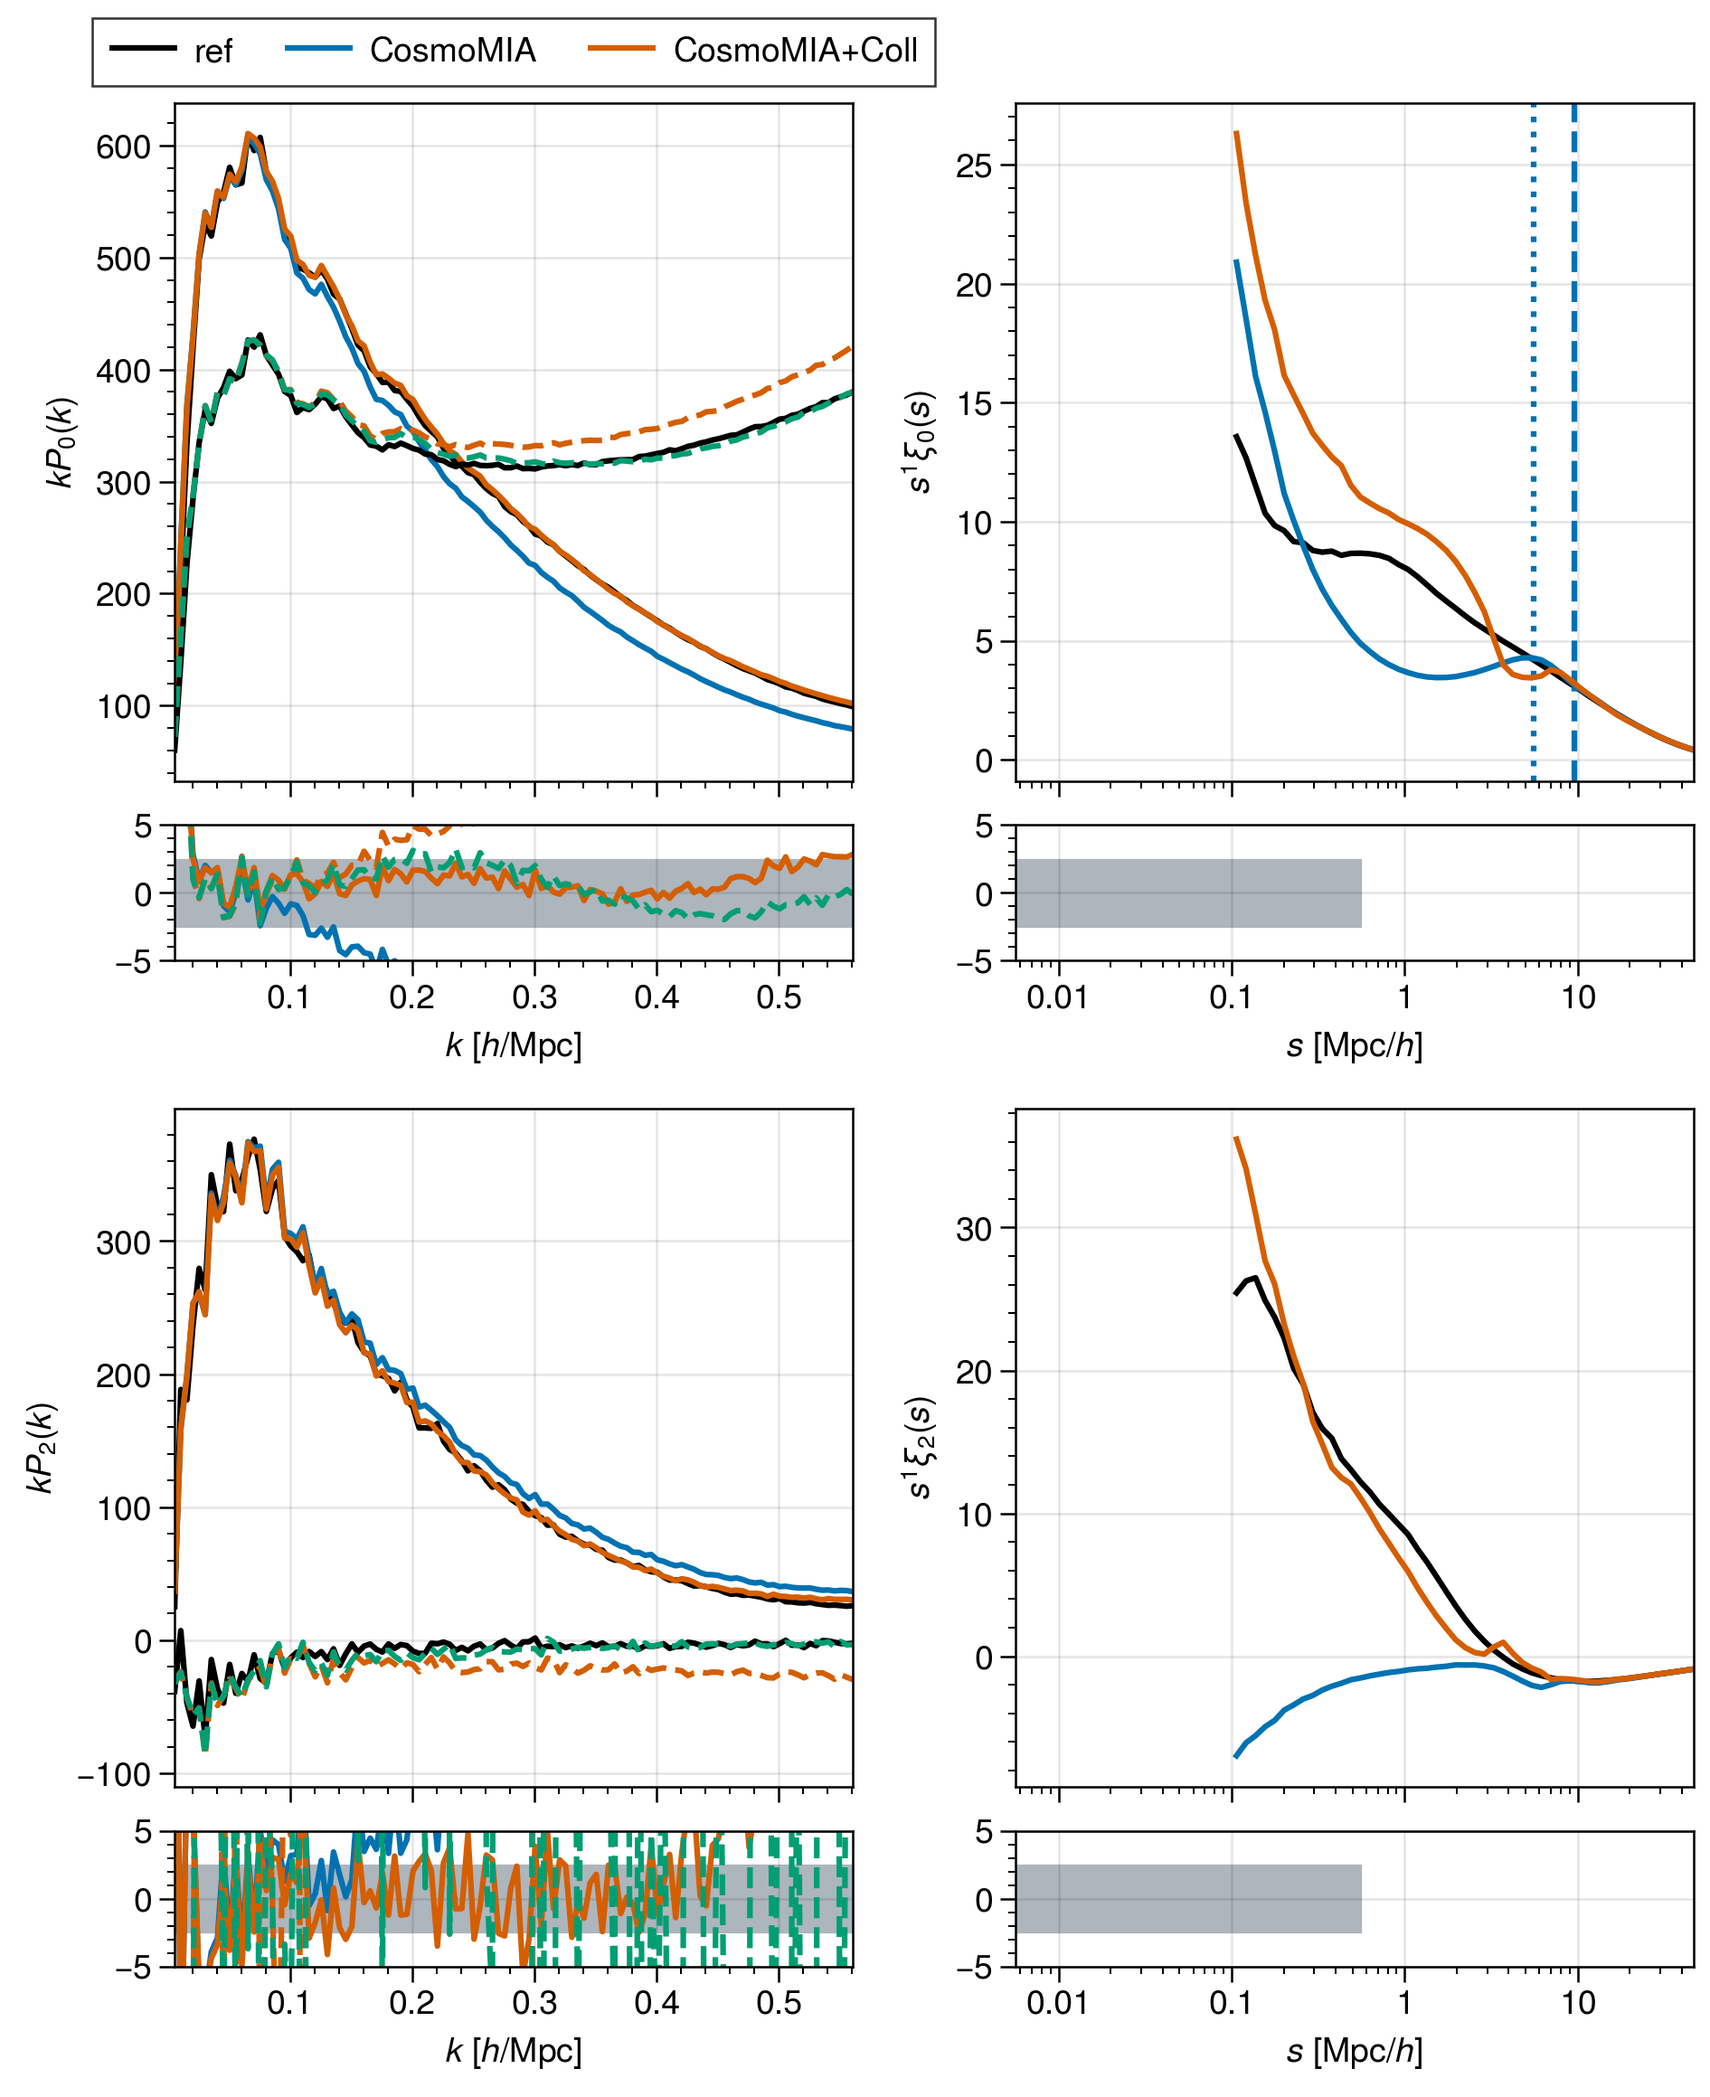
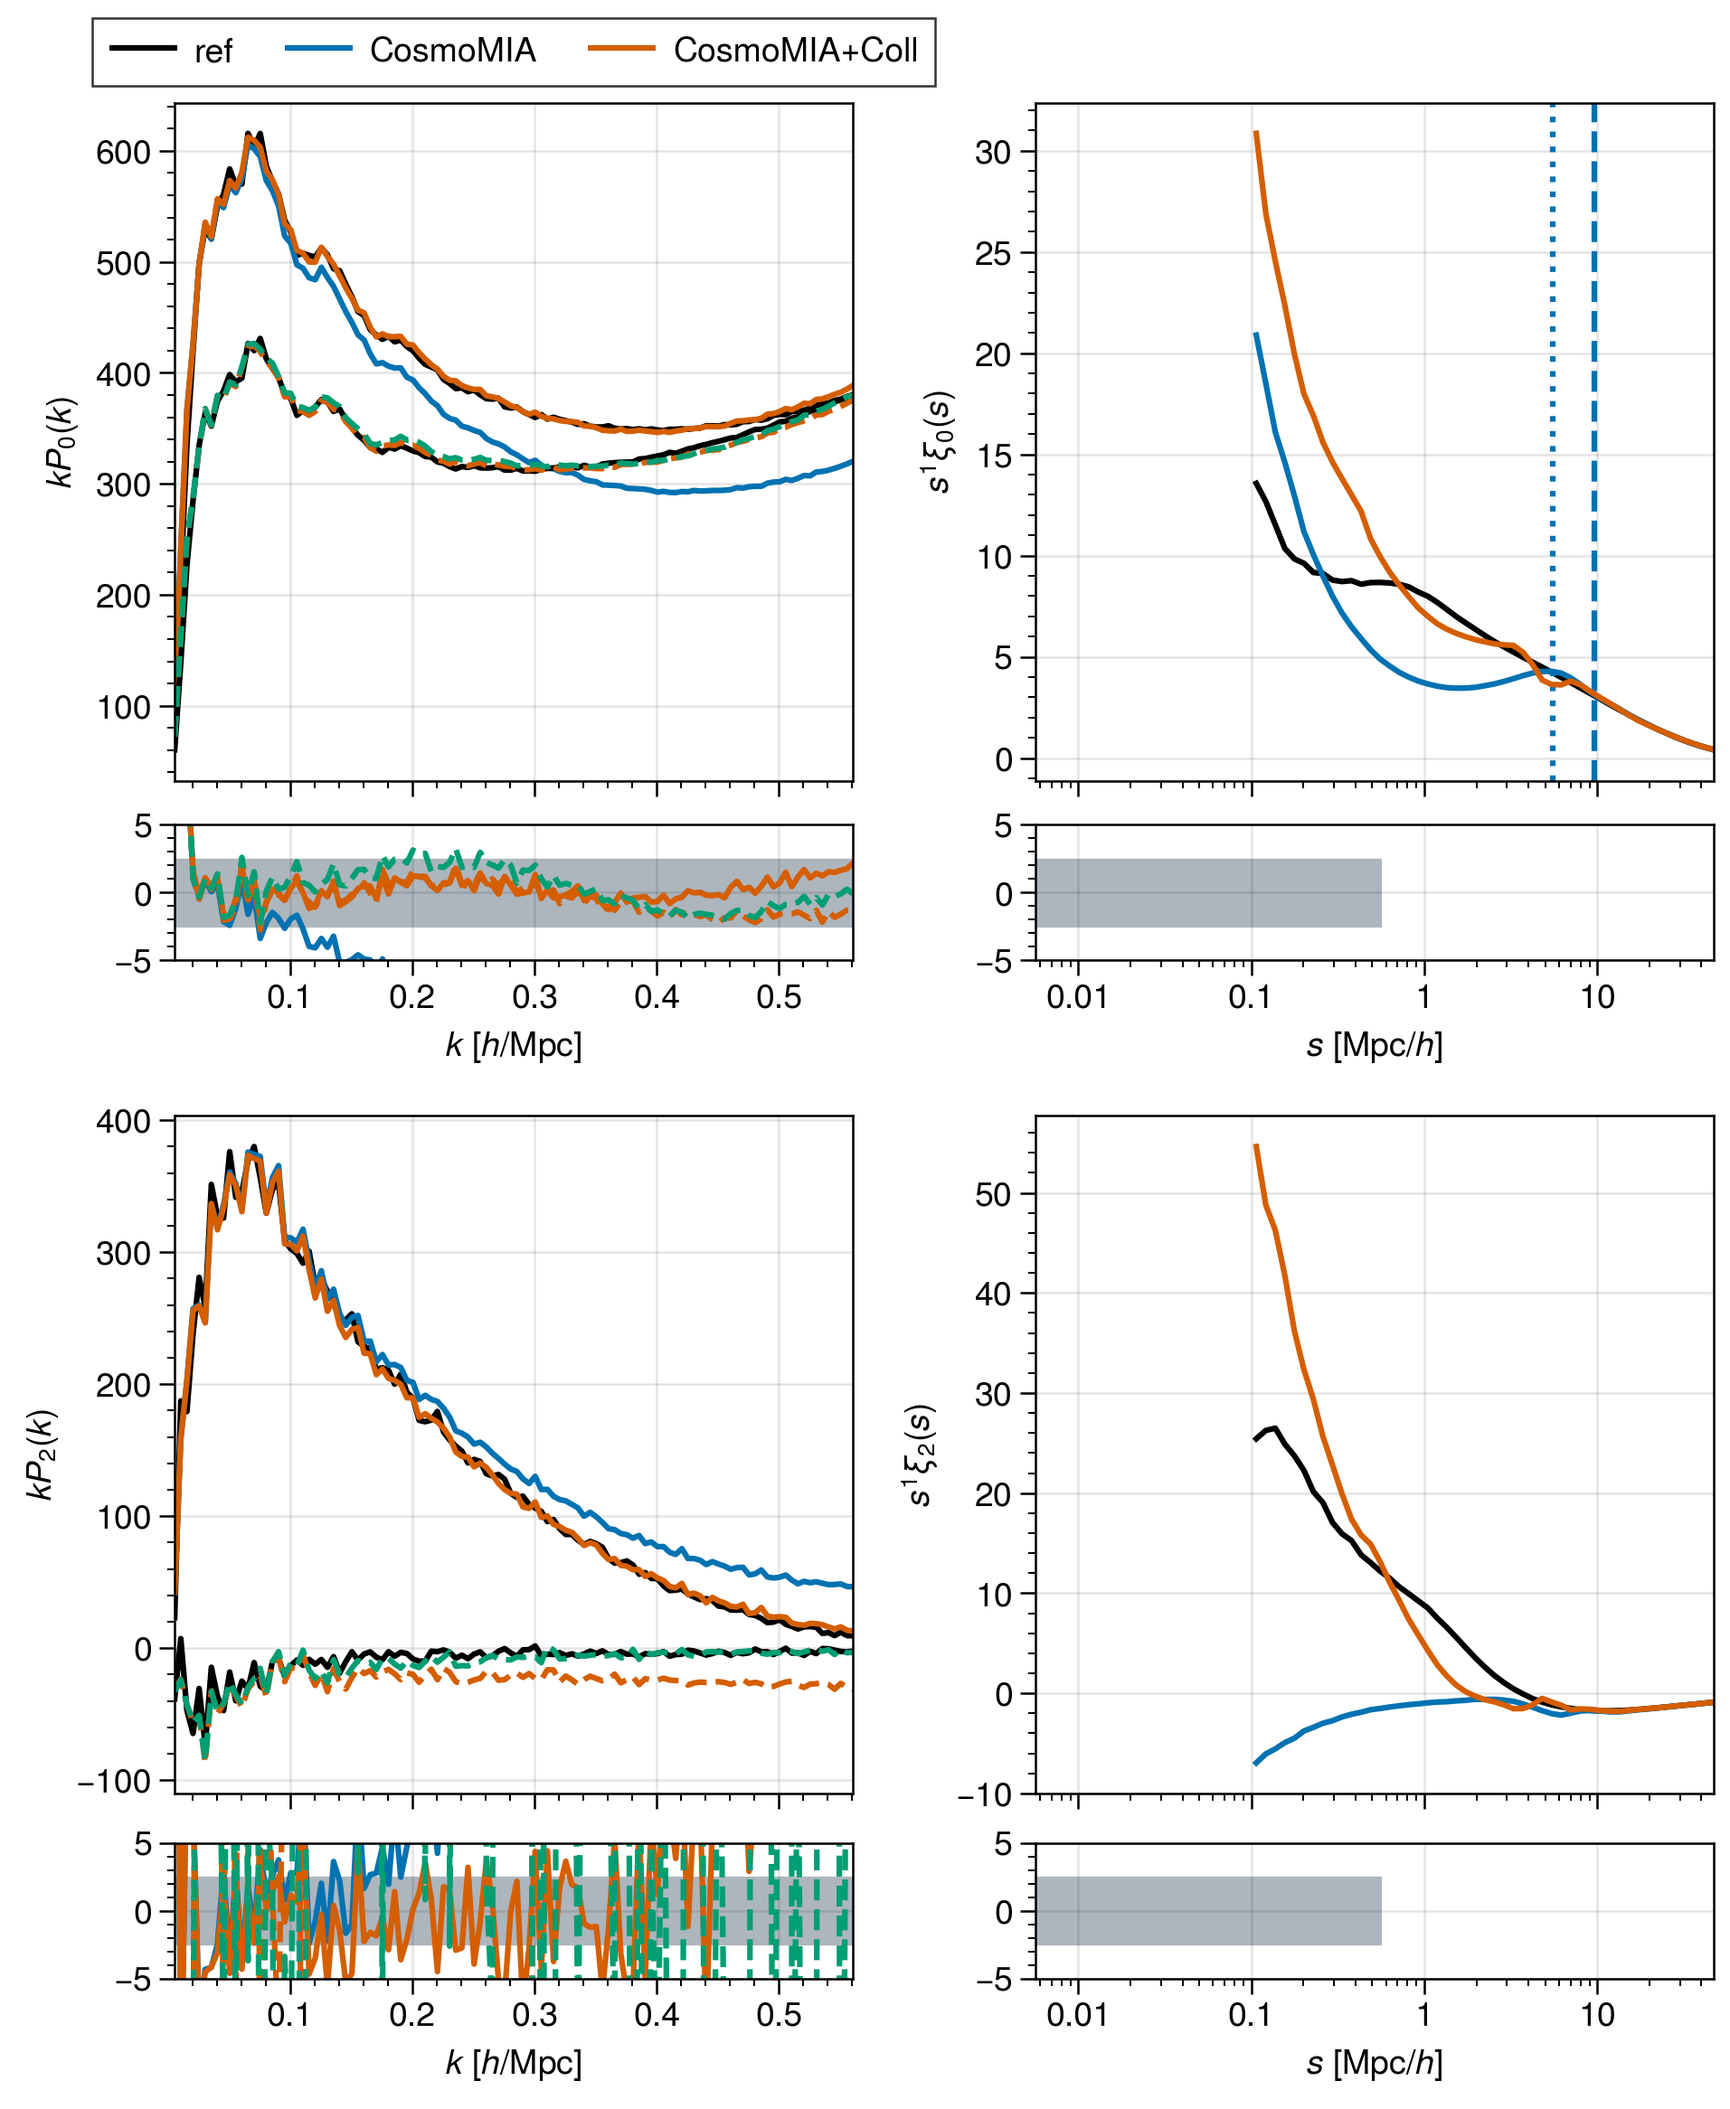
Further tests, close to freezing params

diff --git a/examples/example_subgrid.py b/examples/example_subgrid.py
@@ -3,7 +3,7 @@ import numpy as np
 import jax 
 import jax.numpy as jnp
 import sys, os
-from cosmomia.mas import cic_mas_vec, ngp_mas_vec
+from cosmomia.mas import ngp_mas_vec, ngp_mas_vec
 from cosmomia import py_assign_particles_to_gals, subgrid_collapse, single_collapse_step
 from cosmomia.correlations import powspec_vec, naive_pk, naive_xpk, naive_rcoeff, naive_pk_poles, bispec
 from cosmomia.displacements import enhance_short_range, interpolate_field, spherical_collapse, vel_kernel
@@ -88,6 +88,7 @@ if __name__ == '__main__':
     dm_dens = np.fromfile(DELTA_FILE, np.float32, GRID_SIZE**3)
     dm_cw_type = np.fromfile(CWEB_FILE, np.float32, GRID_SIZE**3).astype(np.uint32)
     target_ncount = np.fromfile(COUNTS_FILE, np.float32, GRID_SIZE**3).astype(np.uint32)
+    
     print(f"Done in {time.time() - tic}s", flush=True)
     
     
@@ -105,7 +106,7 @@ if __name__ == '__main__':
     
     
     delta_ref = jnp.zeros([PK_GRID_SIZE] * 3)
-    delta_ref = cic_mas_vec(delta_ref,
+    delta_ref = ngp_mas_vec(delta_ref,
                     ref_cat['x'].values, ref_cat['y'].values, ref_cat['zrsd'].values, jnp.broadcast_to(jnp.array([1.]), ref_cat['x'].values.shape[0]), 
                     ref_cat['x'].values.shape[0], 
                     0., 0., 0.,
@@ -114,7 +115,7 @@ if __name__ == '__main__':
                     True)
     delta_ref /= delta_ref.mean()
     delta_ref -= 1.
-    k_ref, pk_ref = naive_pk_poles(delta_ref, BOX_SIZE[0],k_edges)
+    k_ref, pk_ref = naive_pk_poles(delta_ref, BOX_SIZE[0],k_edges, index = 1)
     
     
     #k_ref, pk_ref = pk['k'], pk['multipoles']
@@ -122,9 +123,15 @@ if __name__ == '__main__':
     ax[0,0].plot(k_ref, k_ref * pk_ref[:,0], label = "ref", color = 'k')
     ax[1,0].plot(k_ref, k_ref * pk_ref[:,1], label = "ref", color = 'k')
     
-    
-    
-    
+    #target_ncount = jnp.array(target_ncount).at[...].set(0).reshape(GRID_SIZE, GRID_SIZE, GRID_SIZE)
+    #target_ncount = ngp_mas_vec(target_ncount,
+    #                ref_cat['x'].values, ref_cat['y'].values, ref_cat['z'].values, jnp.broadcast_to(jnp.array([1.]), ref_cat['x'].values.shape[0]), 
+    #                ref_cat['x'].values.shape[0], 
+    #                0., 0., 0.,
+    #                BOX_SIZE[0],
+    #                delta_ref.shape[0],
+    #                True)
+    #target_ncount = np.array(target_ncount).ravel()
     tpcf = py_compute_cf([ref_cat[['x', 'y', 'zrsd']].values], [np.ones(ref_cat['x'].shape[0], dtype = ref_cat['x'].dtype)], 
                         s_edges.copy(), 
                         None, 
@@ -179,7 +186,7 @@ if __name__ == '__main__':
     result_rsd += BOX_SIZE[2]
     result_rsd %= BOX_SIZE[2]
     delta_cm_raw = jnp.zeros([PK_GRID_SIZE] * 3)
-    delta_cm_raw = cic_mas_vec(delta_cm_raw,
+    delta_cm_raw = ngp_mas_vec(delta_cm_raw,
                     result_init['pos'][:,0], result_init['pos'][:,1], result_rsd, jnp.broadcast_to(jnp.array([1.]), result_init['pos'].shape[0]), 
                     result_init['pos'].shape[0], 
                     0., 0., 0.,
@@ -192,7 +199,7 @@ if __name__ == '__main__':
     
     
     pax = ax.panel('bottom')
-    k_, pk_ = naive_pk_poles(delta_cm_raw, BOX_SIZE[0], k_edges)
+    k_, pk_ = naive_pk_poles(delta_cm_raw, BOX_SIZE[0], k_edges, index = 1)
     ax[0,0].plot(k_, k_ * pk_[:,0], label = "CosmoMIA")
     pax[0,0].plot(k_, 100 * (pk_[:,0] / pk_ref[:,0] - 1))
     ax[1,0].plot(k_, k_ * pk_[:,1], label = "CosmoMIA")
@@ -224,7 +231,7 @@ if __name__ == '__main__':
     # Julia pars [6.681508955504605, 5.47808573538, 0.7534895556587489, 1.1209400930989315, 0.10218062957157581]
     #params = np.array([0.75, 6.68, 1.12, 5.47, 0.1], dtype = np.float32)
     #params = np.array([0.3, 2., 0.5, 6.4, 0.1], dtype = np.float32)
-    params = np.array([0.15, 3, 0.5, 6.6, 5], dtype = np.float32)
+    params = np.array([0.15, 3, 0.67, 6.6, 3.], dtype = np.float32)
     #########################################################################################################3
     
     
@@ -239,7 +246,7 @@ if __name__ == '__main__':
     result_rsd %= BOX_SIZE[2]
     
     delta_cm_raw = jnp.zeros([PK_GRID_SIZE] * 3)
-    delta_cm_raw = cic_mas_vec(delta_cm_raw,
+    delta_cm_raw = ngp_mas_vec(delta_cm_raw,
                     result['pos'][:,0], result['pos'][:,1], result_rsd, jnp.broadcast_to(jnp.array([1.]), result['pos'].shape[0]), 
                     result['pos'].shape[0], 
                     0., 0., 0.,
@@ -252,7 +259,7 @@ if __name__ == '__main__':
     
     
     
-    k_, pk_ = naive_pk_poles(delta_cm_raw, BOX_SIZE[0], k_edges)
+    k_, pk_ = naive_pk_poles(delta_cm_raw, BOX_SIZE[0], k_edges, index = 1)
     ax[0,0].plot(k_, k_ * pk_[:,0], label = "CosmoMIA+Coll")
     pax[0,0].plot(k_, 100 * (pk_[:,0] / pk_ref[:,0] - 1))
     ax[1,0].plot(k_, k_ * pk_[:,1], label = "CosmoMIA+Coll")
@@ -431,7 +438,7 @@ if __name__ == '__main__':
             loss_val += np.mean(np.abs(tpcf['s'] * (tpcf['multipoles'][0,0,:] - tpcf_ref['multipoles'][0,0,:])))
         if fit_pk:
             delta_cm_raw = jnp.zeros([GRID_SIZE] * 3)
-            delta_cm_raw = cic_mas_vec(delta_cm_raw,
+            delta_cm_raw = ngp_mas_vec(delta_cm_raw,
                             result_init['pos'][:,0], result_init['pos'][:,1], result_rsd, jnp.broadcast_to(jnp.array([1.]), result_init['pos'].shape[0]), 
                             result_init['pos'].shape[0], 
                             0., 0., 0.,
@@ -441,7 +448,7 @@ if __name__ == '__main__':
             rho_cm_raw = delta_cm_raw.copy()
             delta_cm_raw /= delta_cm_raw.mean()
             delta_cm_raw -= 1.
-            k_, pk_ = naive_pk_poles(delta_cm_raw, BOX_SIZE[0], k_edges)
+            k_, pk_ = naive_pk_poles(delta_cm_raw, BOX_SIZE[0], k_edges, index = 1)
             loss_val += np.mean(np.abs(np.log(pk_[:,0]) - np.log(pk_ref[:,0])))
         print("Loss = ", loss_val, "params = ", params, flush = True)
         return loss_val
